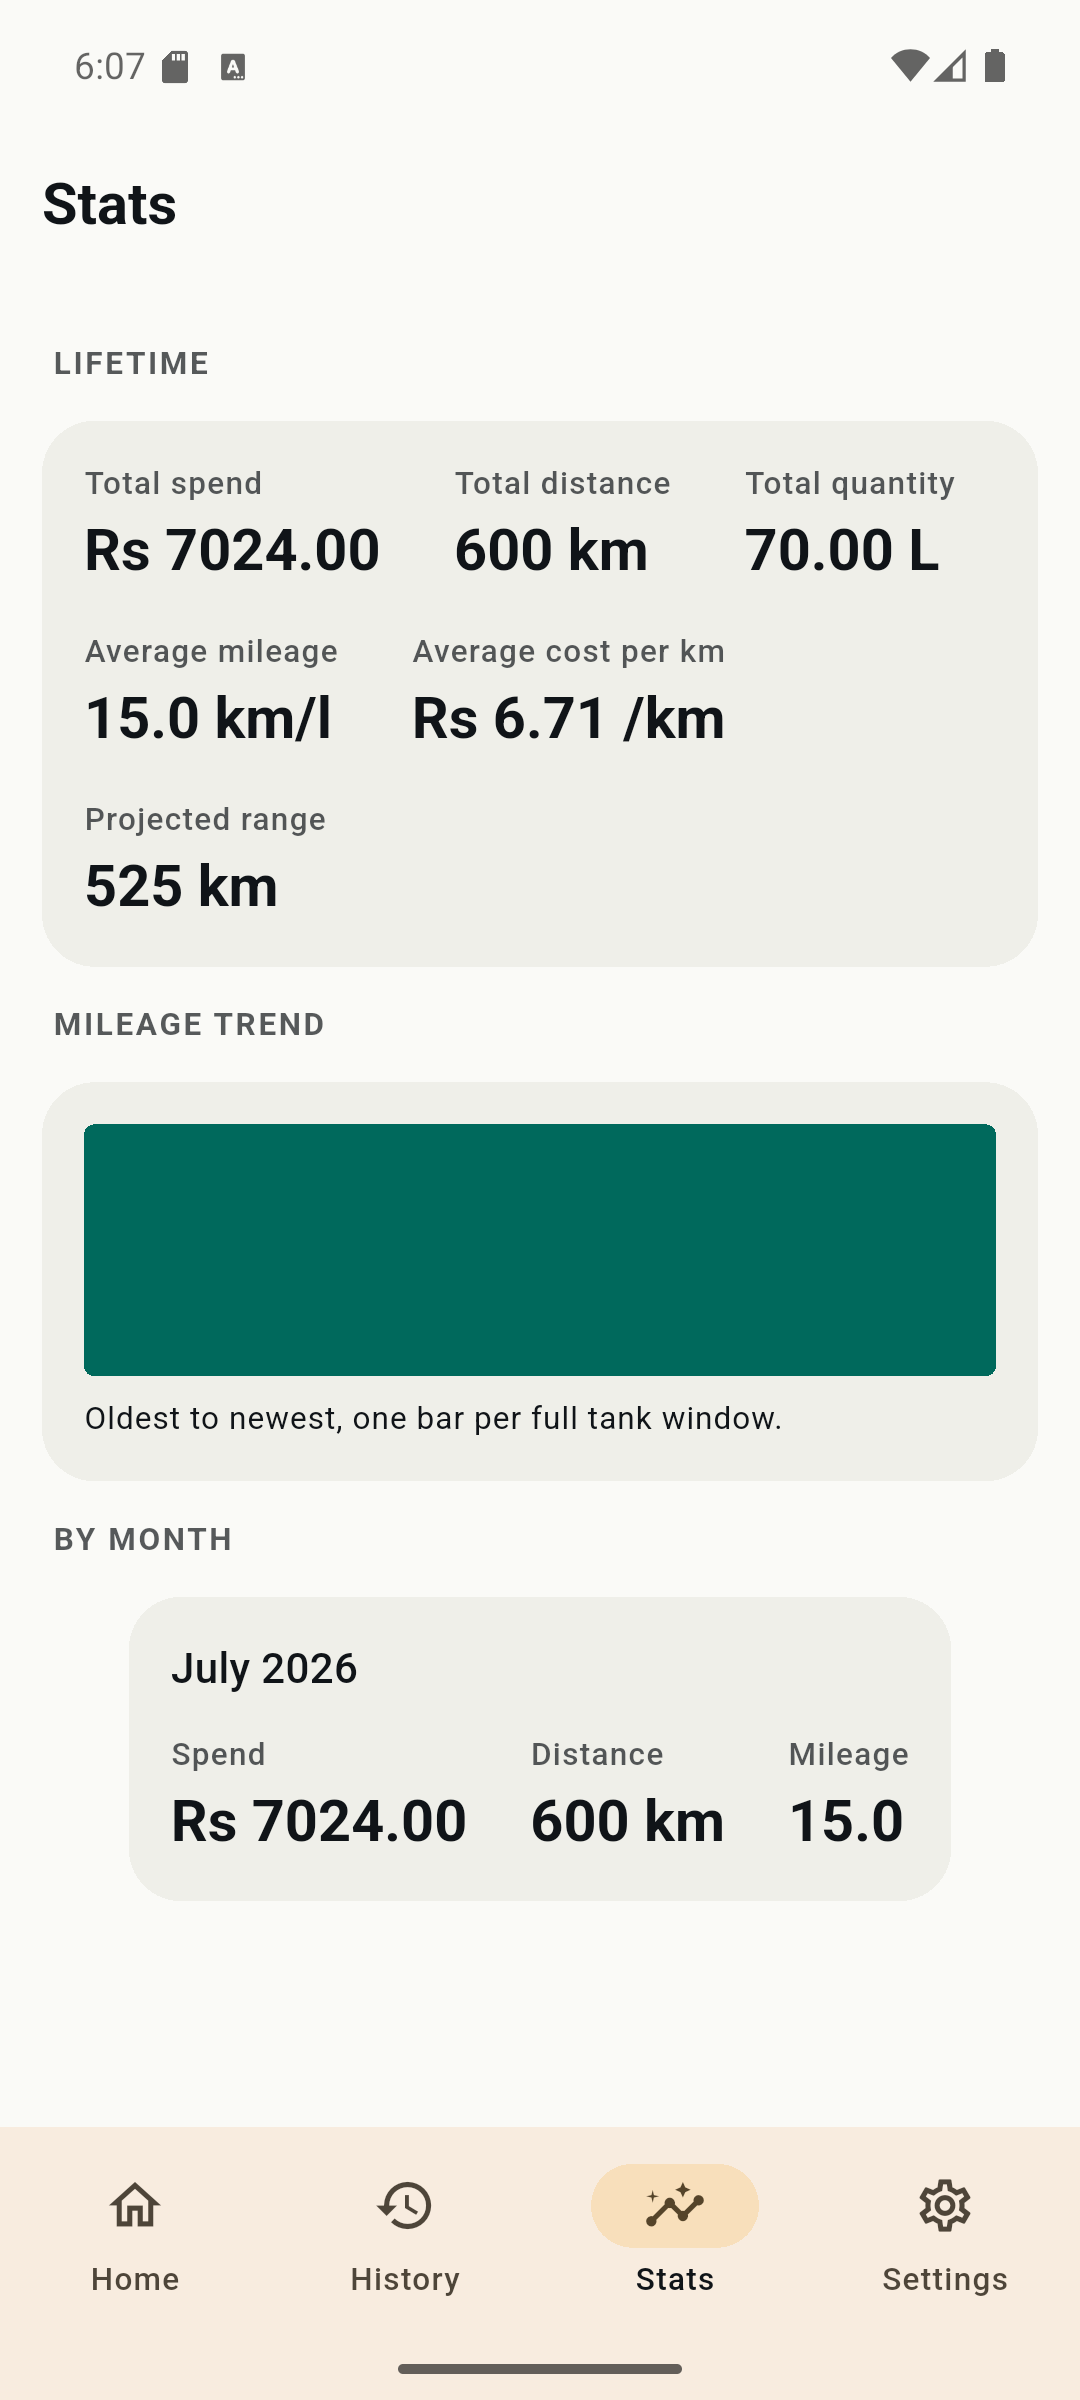
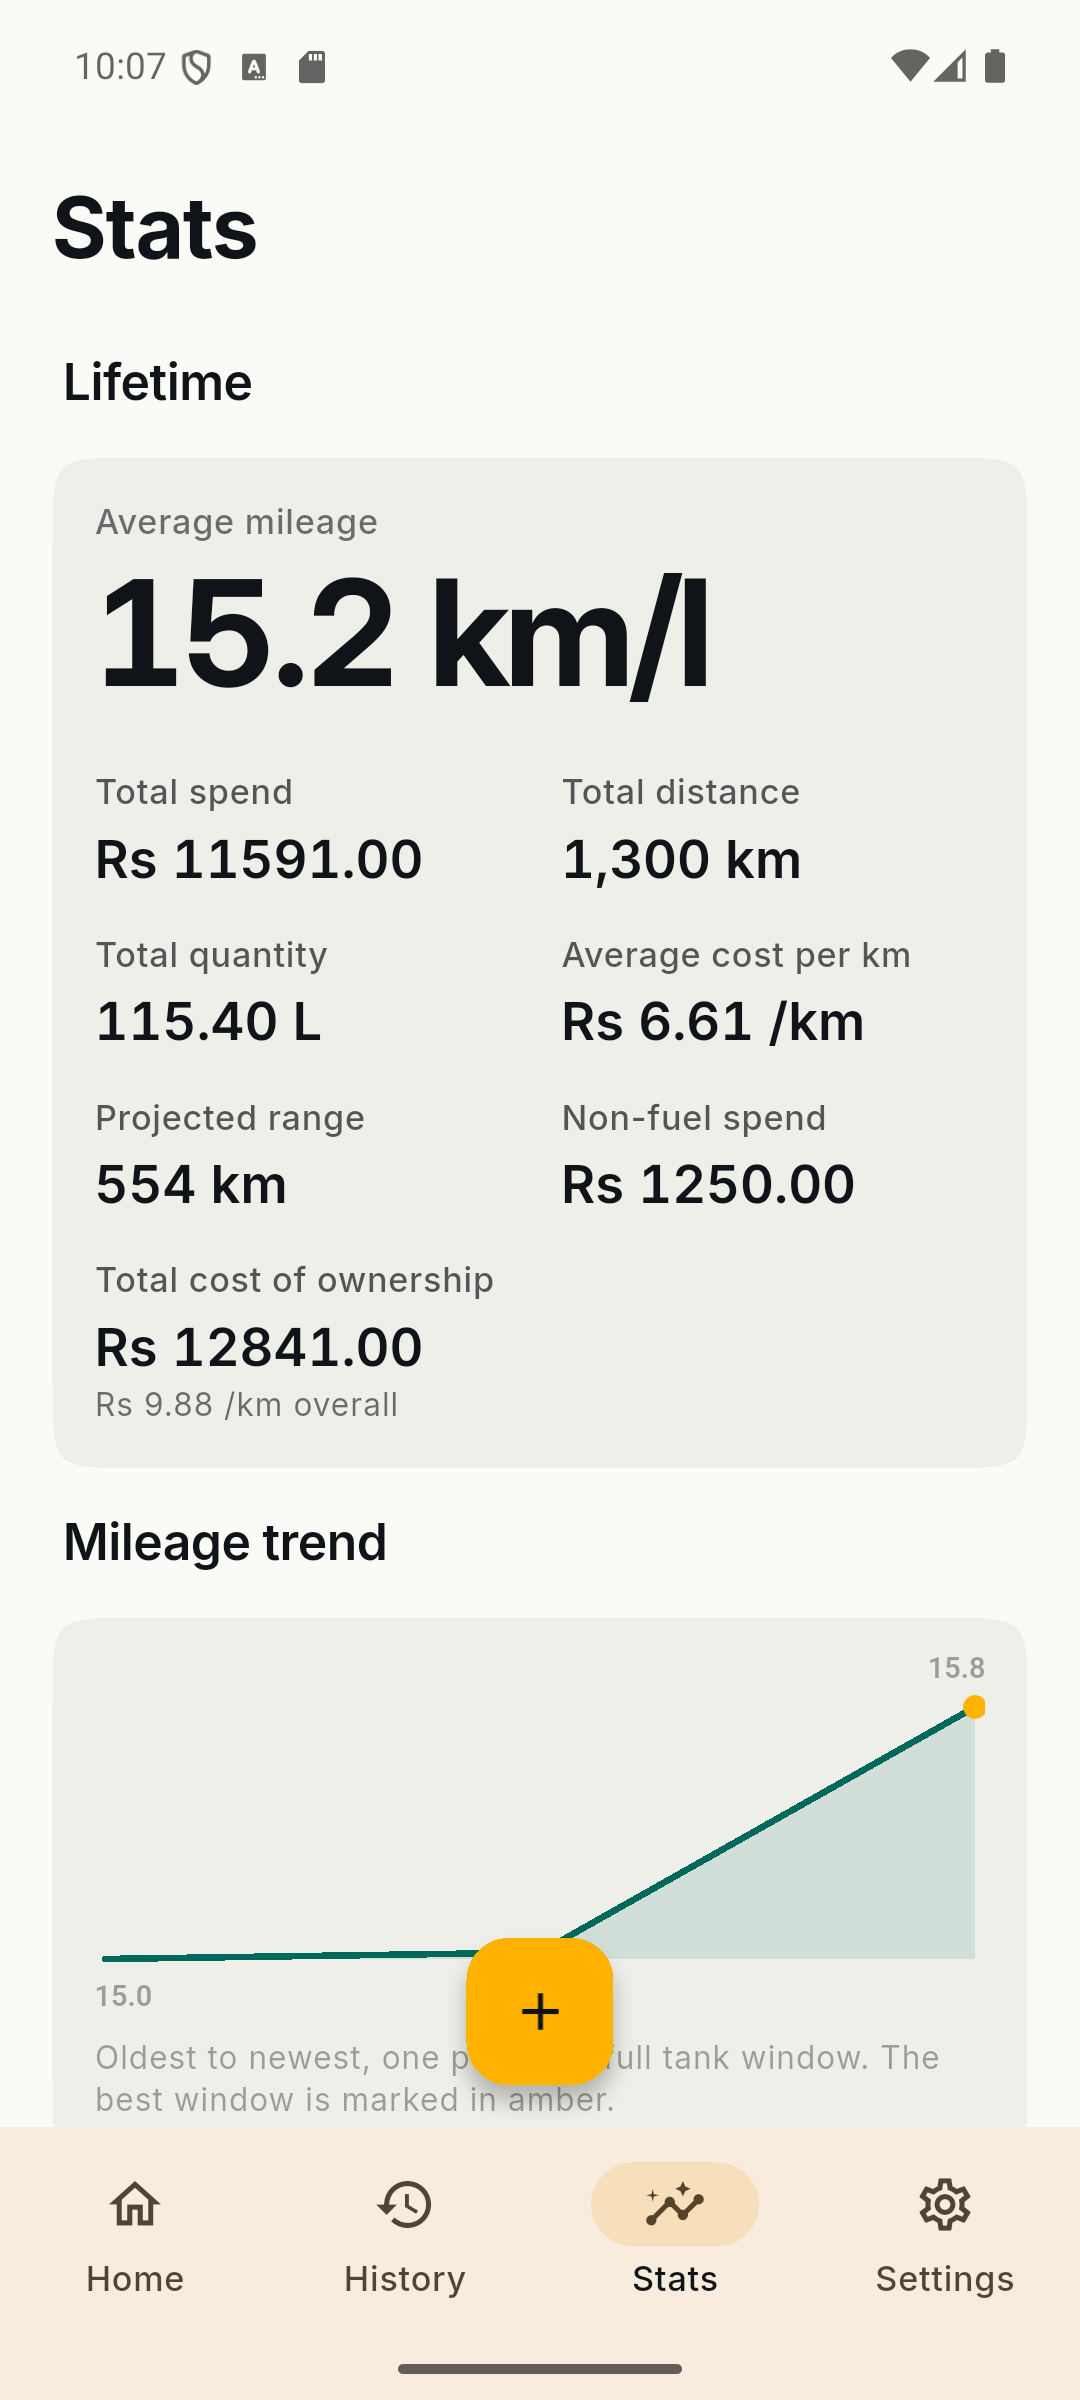
docs: screenshots and readme for 0.2

diff --git a/README.md b/README.md
@@ -34,8 +34,13 @@ Present today (early development):
 - Log every refuel: quantity, amount paid, odometer reading.
 - Optional per refuel: fuel variant (XP95, Shell V-Power, and the rest), station, notes, and a full or partial tank flag.
 - Real mileage computed full tank to full tank (km/l, or km/kg for CNG).
-- Cost per kilometre, range per tank, and monthly spend.
-- India-first fuel presets: IOCL, BPCL, HPCL, Shell, Nayara, Jio-bp variants, CNG, and Auto LPG. Free text entry covers other countries.
+- Cost per kilometre, range per tank, monthly spend, and a mileage trend chart, one point per full tank window.
+- Company claimed mileage shown next to the real figure.
+- Document expiry reminders for insurance, PUC, RC, and fitness, delivered as local notifications at 30, 15, 7, and 1 days out.
+- Service log with due reminders: engine oil by distance, general service by date, whichever comes first.
+- Non-fuel expenses (service, tyres, repairs, insurance) folded into a total cost of ownership figure.
+- CSV export and import, plus a blank template. The export is your backup.
+- India-first fuel presets: IOCL, BPCL, HPCL, Shell, Nayara, Jio-bp variants, CNG, and Auto LPG. Free text entry and a currency picker cover other countries.
 - Material 3 interface with dark and light themes.
 
 Fuel variant is remembered per vehicle, so most refuels are just quantity, amount, odometer, save.
@@ -98,9 +103,9 @@ The domain layer has no Flutter imports, so the mileage math can be tested witho
 
 ## Roadmap
 
-- **v0.1** (current focus): vehicles, refuel log, and the core stats (mileage, cost per km, range per tank, monthly spend).
-- **v0.2**: charts, plus CSV and JSON export and import. The export is your backup.
-- **Later**: more locales and fuel presets beyond India, and an iOS release once it is properly tested.
+- **v0.1**: vehicles, refuel log, and the core stats (mileage, cost per km, range per tank, monthly spend). Done.
+- **v0.2** (current): visual overhaul, mileage trend, CSV backup and restore, claimed mileage comparison, document expiry reminders, service log with due reminders, and non-fuel expense tracking.
+- **Later**: more locales and fuel presets beyond India, a running-cost share card, and an iOS release once it is properly tested.
 
 ## Contributing
 
